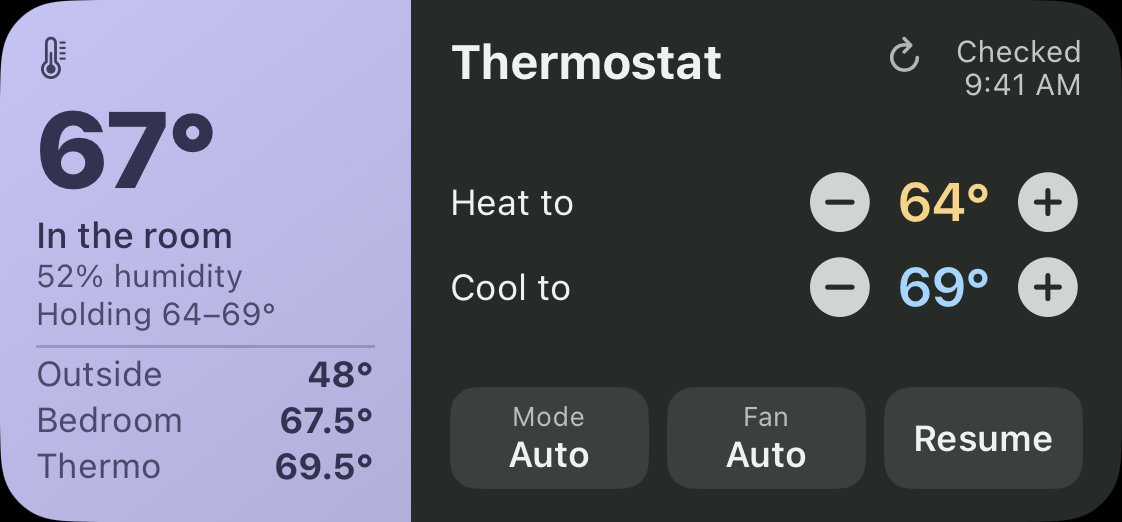
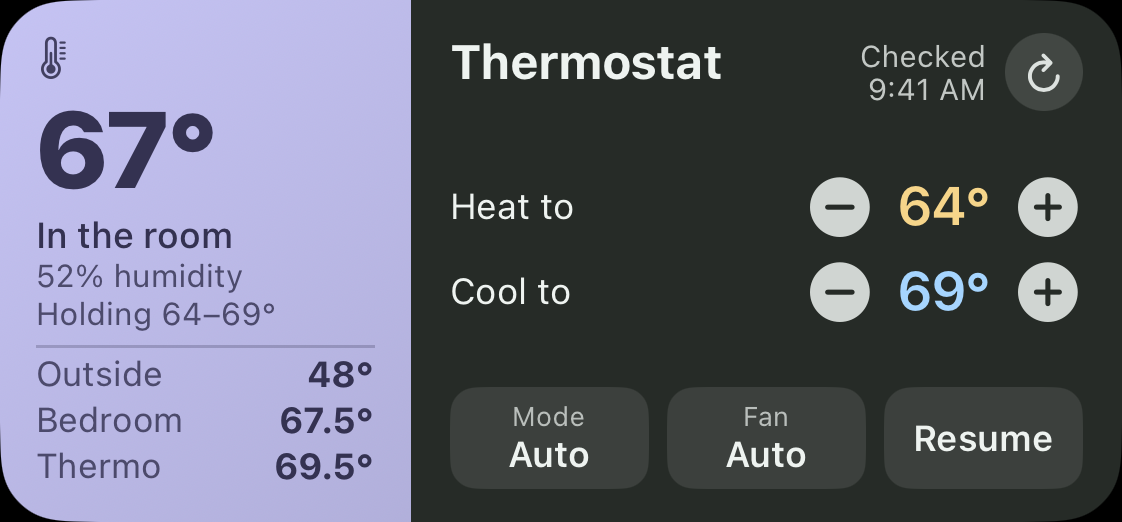
fix: thermostat uses shared BeaconFreshness (circular refresh, right of stamp)
The thermostat was the one Beacon view that hand-rolled its header (a bare
arrow.clockwise on the LEFT) instead of the shared BeaconFreshness cluster
(Checked stamp + circular refresh button on the RIGHT) that Alarm, Car and
ChargePoint already use. Now it uses the shared component, matching Android
and its siblings.

diff --git a/Shared/ThermostatBeaconView.swift b/Shared/ThermostatBeaconView.swift
@@ -55,15 +55,9 @@ public struct ThermostatBeaconView: View {
             HStack(alignment: .top, spacing: 6) {
                 Text(snap.name).font(.system(size: 16, weight: .bold)).foregroundStyle(surfaceInk).lineLimit(1)
                 Spacer(minLength: 2)
-                Button(intent: WidgetRefreshIntent("com.rohit.hearth.thermostat")) {
-                    Image(systemName: "arrow.clockwise").font(.system(size: 11, weight: .semibold))
-                        .foregroundStyle(surfaceInk.opacity(0.7))
-                }
-                .buttonStyle(.plain).padding(.trailing, 5)
-                VStack(alignment: .trailing, spacing: -1) {
-                    Text("Checked").font(.system(size: 10))
-                    Text(snap.checkedAt).font(.system(size: 10))
-                }.foregroundStyle(surfaceInk.opacity(0.78)).invalidatableContent()
+                // Use the shared freshness cluster (Checked stamp + circular refresh button to its RIGHT),
+                // same as Alarm/Car/ChargePoint and Android — was a bespoke header (bare icon on the left).
+                BeaconFreshness(checkedAt: snap.checkedAt, kind: "com.rohit.hearth.thermostat", ink: surfaceInk)
             }
             Spacer(minLength: 5)
             if let heat = snap.heatSetpoint { setpointRow("Heat to", heat, 0xFFF6D58A, side: .heat) }
